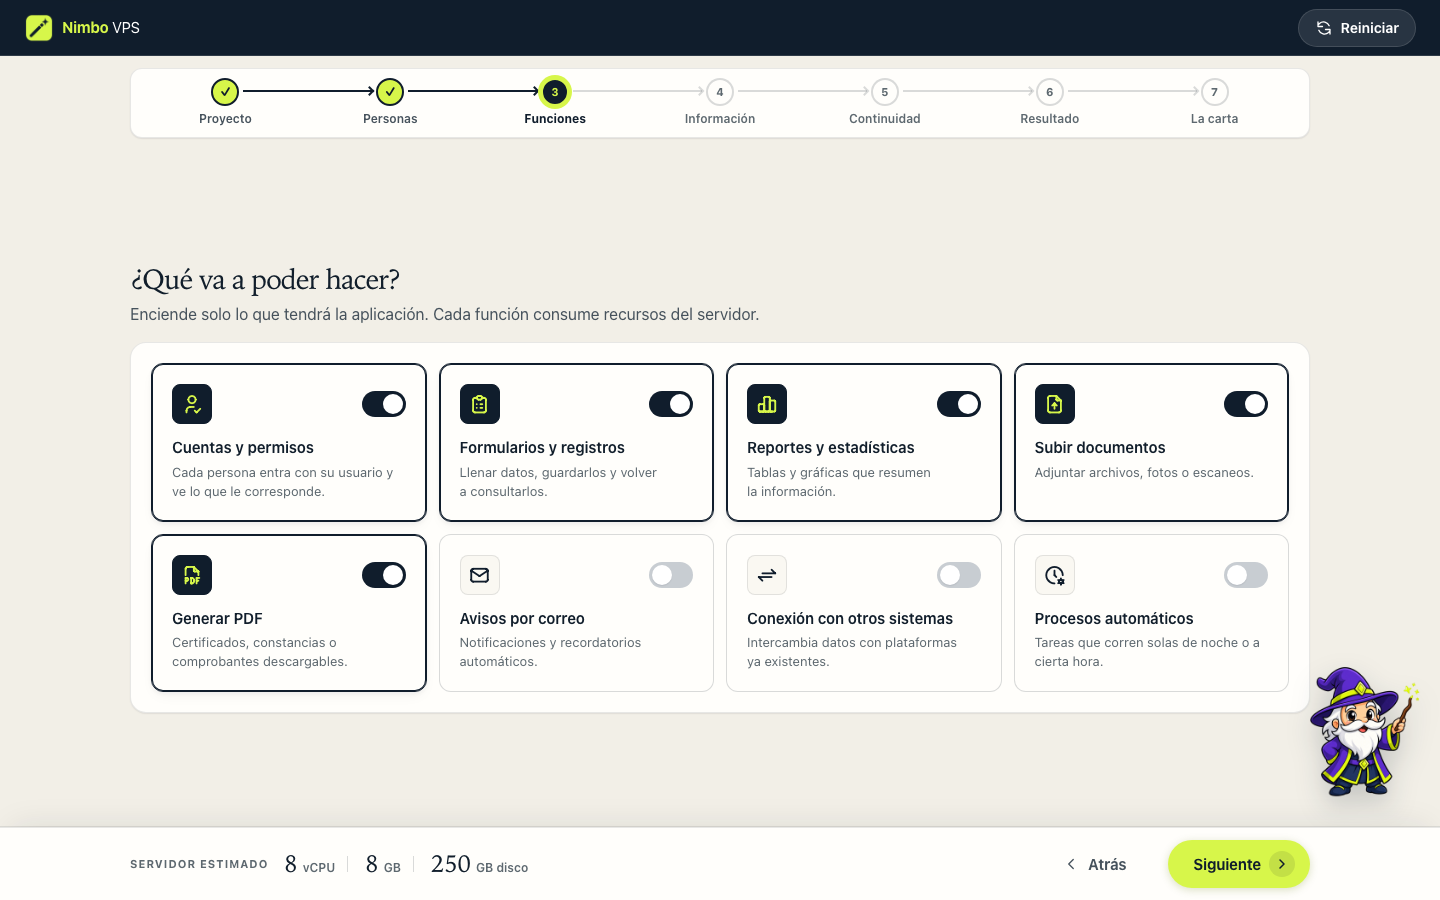
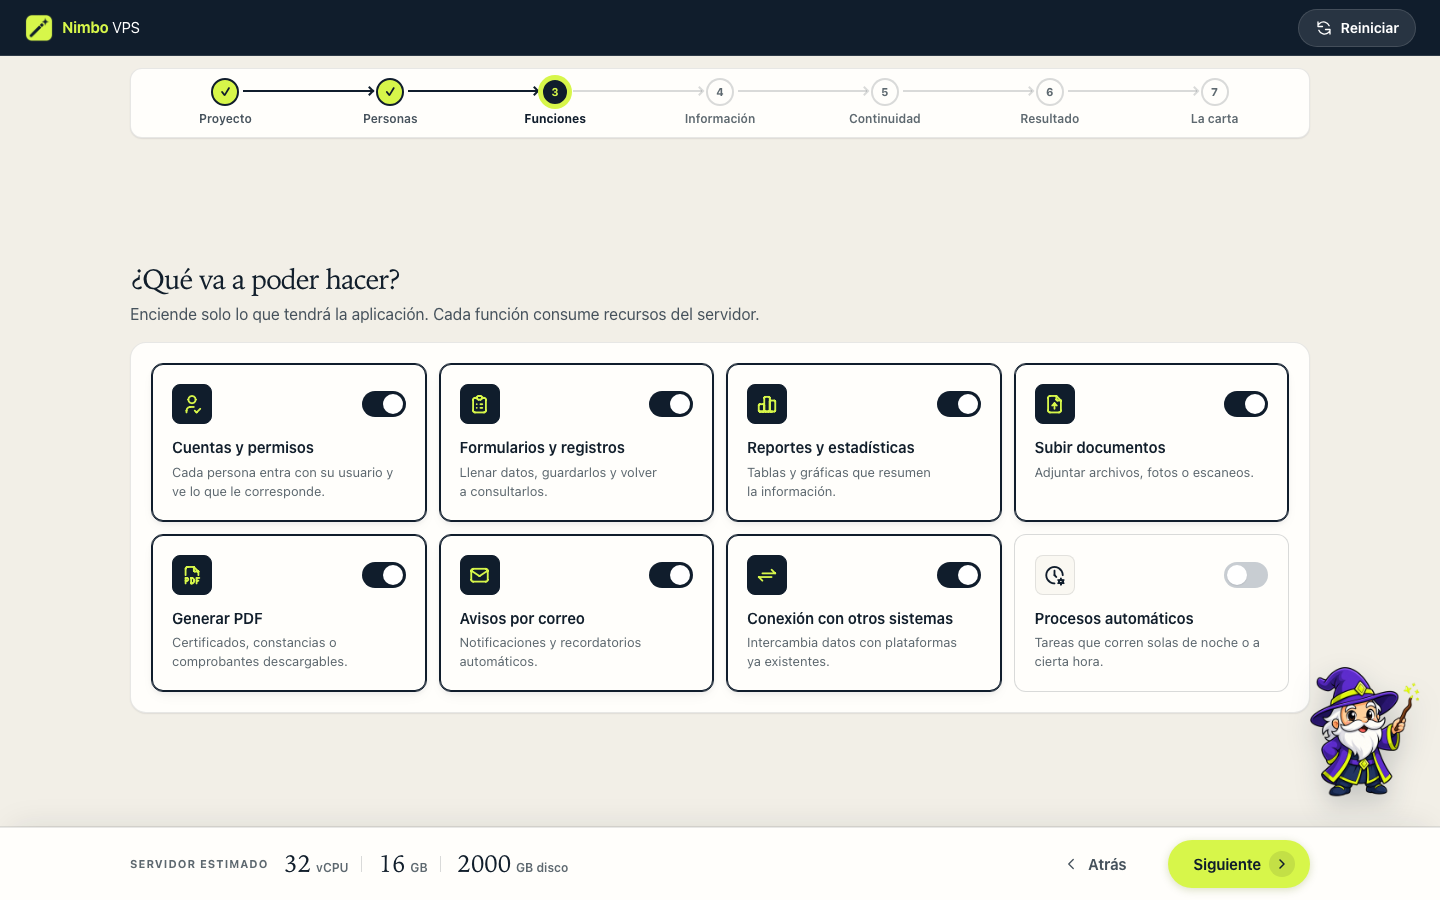
docs: renueva las capturas y agrega el recorrido animado

diff --git a/scripts/make_readme_gif.swift b/scripts/make_readme_gif.swift
@@ -1,0 +1,90 @@
+#!/usr/bin/env swift
+
+import AppKit
+import CoreGraphics
+import Foundation
+import ImageIO
+import UniformTypeIdentifiers
+
+guard CommandLine.arguments.count == 3 else {
+    fatalError("Uso: make_readme_gif.swift <directorio-de-fotogramas> <salida.gif>")
+}
+
+let fileManager = FileManager.default
+let frameDirectory = URL(fileURLWithPath: CommandLine.arguments[1], isDirectory: true)
+let output = URL(fileURLWithPath: CommandLine.arguments[2])
+let frameURLs = try fileManager.contentsOfDirectory(
+    at: frameDirectory,
+    includingPropertiesForKeys: nil
+).filter { $0.pathExtension.lowercased() == "png" }
+ .sorted { $0.lastPathComponent < $1.lastPathComponent }
+
+guard let firstURL = frameURLs.first,
+      let firstSource = CGImageSourceCreateWithURL(firstURL as CFURL, nil),
+      let firstImage = CGImageSourceCreateImageAtIndex(firstSource, 0, nil) else {
+    fatalError("No hay fotogramas PNG válidos en \(frameDirectory.path)")
+}
+
+let outputWidth = 960
+let aspect = CGFloat(firstImage.height) / CGFloat(firstImage.width)
+let outputHeight = Int((CGFloat(outputWidth) * aspect).rounded())
+let canvas = CGSize(width: outputWidth, height: outputHeight)
+
+try fileManager.createDirectory(at: output.deletingLastPathComponent(), withIntermediateDirectories: true)
+guard let destination = CGImageDestinationCreateWithURL(
+    output as CFURL,
+    UTType.gif.identifier as CFString,
+    frameURLs.count,
+    nil
+) else {
+    fatalError("No se pudo crear \(output.path)")
+}
+
+CGImageDestinationSetProperties(destination, [
+    kCGImagePropertyGIFDictionary: [kCGImagePropertyGIFLoopCount: 0]
+] as CFDictionary)
+
+func delay(for url: URL) -> Double {
+    let stem = url.deletingPathExtension().lastPathComponent
+    let milliseconds = Double(stem.split(separator: "-").last ?? "800") ?? 800
+    return milliseconds / 1000
+}
+
+for url in frameURLs {
+    guard let source = CGImageSourceCreateWithURL(url as CFURL, nil),
+          let image = CGImageSourceCreateImageAtIndex(source, 0, nil) else {
+        fatalError("No se pudo leer \(url.path)")
+    }
+
+    guard let context = CGContext(
+        data: nil,
+        width: Int(canvas.width),
+        height: Int(canvas.height),
+        bitsPerComponent: 8,
+        bytesPerRow: 0,
+        space: CGColorSpaceCreateDeviceRGB(),
+        bitmapInfo: CGImageAlphaInfo.premultipliedLast.rawValue
+    ) else {
+        fatalError("No se pudo preparar el fotograma")
+    }
+
+    context.interpolationQuality = .high
+    context.draw(image, in: CGRect(origin: .zero, size: canvas))
+    guard let rendered = context.makeImage() else {
+        fatalError("No se pudo renderizar \(url.lastPathComponent)")
+    }
+
+    let duration = delay(for: url)
+    CGImageDestinationAddImage(destination, rendered, [
+        kCGImagePropertyGIFDictionary: [
+            kCGImagePropertyGIFDelayTime: duration,
+            kCGImagePropertyGIFUnclampedDelayTime: duration
+        ]
+    ] as CFDictionary)
+}
+
+guard CGImageDestinationFinalize(destination) else {
+    fatalError("No se pudo finalizar \(output.path)")
+}
+
+print("GIF creado con \(frameURLs.count) fotogramas: \(output.path)")

diff --git a/README.md b/README.md
@@ -9,16 +9,22 @@
 </p>
 
 <p align="center">
-  <a href="https://github.com/juandiegoc30/vps-calculator/actions/workflows/ci.yml"><img alt="Integración continua" src="https://github.com/juandiegoc30/vps-calculator/actions/workflows/ci.yml/badge.svg" /></a>
-  <a href="https://github.com/juandiegoc30/vps-calculator/actions/workflows/deploy-pages.yml"><img alt="GitHub Pages" src="https://github.com/juandiegoc30/vps-calculator/actions/workflows/deploy-pages.yml/badge.svg" /></a>
+  <a href="https://github.com/juandiegoc30/nimbo-vps/actions/workflows/ci.yml"><img alt="Integración continua" src="https://github.com/juandiegoc30/nimbo-vps/actions/workflows/ci.yml/badge.svg" /></a>
+  <a href="https://github.com/juandiegoc30/nimbo-vps/actions/workflows/deploy-pages.yml"><img alt="GitHub Pages" src="https://github.com/juandiegoc30/nimbo-vps/actions/workflows/deploy-pages.yml/badge.svg" /></a>
   <a href="LICENSE"><img alt="Licencia MIT" src="https://img.shields.io/badge/licencia-MIT-101d2c.svg" /></a>
 </p>
 
 Nimbo VPS guía a personas no técnicas por un cuestionario breve sobre usuarios, funciones, datos y continuidad. Con esas respuestas estima CPU, memoria, disco y transferencia, explica la recomendación y redacta una carta lista para el área de infraestructura.
 
-**Demo:** [juandiegoc30.github.io/vps-calculator](https://juandiegoc30.github.io/vps-calculator/)
+**Demo:** [juandiegoc30.github.io/nimbo-vps](https://juandiegoc30.github.io/nimbo-vps/)
 
 ![Landing de Nimbo VPS](docs/screenshots/landing.png)
+
+## Demostración
+
+El recorrido animado muestra la captura del proyecto, la selección de capacidad, la recomendación, la comparación de escenarios y el cierre de la solicitud.
+
+![Recorrido animado de Nimbo VPS](docs/media/nimbo-vps-demo.gif)
 
 ## Qué resuelve
 
@@ -34,9 +40,13 @@ Nimbo VPS guía a personas no técnicas por un cuestionario breve sobre usuarios
 
 ## Recorrido
 
-| Funciones | Resultado | Solicitud finalizada |
-| --- | --- | --- |
-| ![Selección de funciones](docs/screenshots/funciones.png) | ![Recomendación de servidor](docs/screenshots/resultado.png) | ![Cierre del wizard](docs/screenshots/solicitud-finalizada.png) |
+| Funciones | Información |
+| --- | --- |
+| ![Selección de funciones](docs/screenshots/funciones.png) | ![Peso y conservación de archivos](docs/screenshots/informacion.png) |
+| **Resultado** | **Comparación** |
+| ![Recomendación de servidor](docs/screenshots/resultado.png) | ![Comparación de escenarios](docs/screenshots/comparacion.png) |
+
+![Cierre del wizard](docs/screenshots/solicitud-finalizada.png)
 
 ## Tecnología
 
@@ -54,8 +64,8 @@ No hay backend, cookies, telemetría ni dependencias de ejecución. Playwright s
 Requisitos: Node.js 22 o posterior.
 
 ```bash
-git clone https://github.com/juandiegoc30/vps-calculator.git
-cd vps-calculator
+git clone https://github.com/juandiegoc30/nimbo-vps.git
+cd nimbo-vps
 npm ci
 npx playwright install chromium
 npm run ci
@@ -79,6 +89,7 @@ Abre `http://localhost:8080/` para la landing o `http://localhost:8080/app.html`
 | `npm run build` | Genera `dist/` con solo los archivos necesarios para producción. |
 | `npm run ci` | Ejecuta sintaxis, pruebas y build, igual que GitHub Actions. |
 | `npm run screenshots` | Regenera las capturas usadas por este README. |
+| `npm run demo:gif` | Regenera en macOS el recorrido animado del README con Playwright e ImageIO. |
 
 ## Estructura
 
@@ -93,8 +104,8 @@ Abre `http://localhost:8080/` para la landing o `http://localhost:8080/app.html`
 │   ├── js/app.js                 cálculo e interacción del wizard
 │   ├── js/landing.js             comportamiento de la landing
 │   └── vendor/tabler-icons/      iconos locales y licencia
-├── docs/                         arquitectura, método, pruebas y despliegue
-├── scripts/                      build, capturas y generación de recursos
+├── docs/                         arquitectura, método, pruebas y material visual
+├── scripts/                      build, capturas, GIF y generación de recursos
 ├── tests/                        pruebas de humo y layout
 └── .github/workflows/            integración y despliegue continuo
 ```

diff --git a/docs/pruebas.md b/docs/pruebas.md
@@ -57,4 +57,12 @@ npx playwright install --with-deps chromium
 npm run screenshots
 ```
 
-Revisa visualmente los cuatro PNG en `docs/screenshots/` antes de incluirlos en un commit. Las capturas se generan con movimiento reducido para que el resultado sea determinista.
+Revisa visualmente los seis PNG en `docs/screenshots/` antes de incluirlos en un commit. Las capturas se generan con movimiento reducido para que el resultado sea determinista.
+
+En macOS también se puede regenerar el recorrido animado del README:
+
+```bash
+npm run demo:gif
+```
+
+Este comando captura el flujo con Playwright y codifica `docs/media/nimbo-vps-demo.gif` mediante ImageIO, sin depender de servicios externos.
